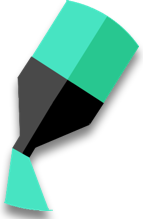
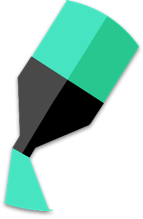
changed style

Changed region(s): [[0.1958, 0.2192, 1.0, 0.7671], [0.0, 0.9315, 0.3636, 1.0], [0.0839, 0.411, 0.1399, 0.6301]]

diff --git a/popup.css b/popup.css
@@ -1,6 +1,6 @@
 #container {
-  min-width: 400px;
-  max-width: 400px;
+  min-width: 300px;
+  max-width: 300px;
   background-color: #F7EAC8;
   font-family: 'MyFont', serif;
 }
@@ -10,35 +10,57 @@
   max-width: 400px;
 }
 
+#highlight-image {
+  float: left;
+}
+
 #highlight {
   font-style: italic;
 }
 
-#comment {
-  resize: none;
-  min-width: 300px;
-  max-width: 300px;
+#recipient {
+  min-width: 201px;
+  max-width: 201px;
+  min-height: 28px;
+  max-height: 28px;
+  font-family: 'Lustria', serif;
+  font-size: 12px;
+  float: left;
 }
 
-#recipient {
-  min-width: 300px;
-  max-width: 300px;
+#comment {
+  resize: none;
+  min-width: 200px;
+  max-width: 200px;
+  min-height: 18px;
+  max-height: 18px;
+  font-family: 'Lustria', serif;
+  font-size: 10px;
+}
+
+#send {
+
 }
 
 #link {
-  font-size: 12px;
+  font-size: 8px;
   white-space: nowrap;
   text-overflow: ellipsis;
   max-width: 300px;
 }
 
 .styleTextBox {
-  background-color: rgba(255, 255, 255, 1);
-  box-shadow: inset 1px 2px 3px 1px #ccc;
+  background-color: #FFF8E1;
+  box-shadow: inset -1px 2px 3px 1px #ccc;
   border-style: none;
+  text-indent: 5px;
 }
 
 @font-face {
     font-family: 'MyFont';
     src: url('Font/Lantinghei-SC-Extralight-stub.ttf') format('truetype');
+}
+
+input {
+ outline:none;
 }

diff --git a/popup.html b/popup.html
@@ -4,18 +4,17 @@
     <link rel="stylesheet" type="text/css" href="popup.css">
     <script src="jquery-1.11.3.min.js"></script>
     <script src="popup.js"></script>
-
+    <link href='https://fonts.googleapis.com/css?family=Lustria' rel='stylesheet' type='text/css'>
   </head>
   <body id="container">
     <h2 id="title"></h2>
-    <img src="Images/highlighter_enabled.png" width="30"/>
+    <img id="highlight-image" src="Images/highlighter_enabled.png" width="25"/>
     <p id="highlight"></p>
-    <textarea id="comment" class="styleTextBox" placeholder="Comments" rows="4" cols="50"></textarea>
     <br>
     <input id="recipient" class="styleTextBox" placeholder="Recommend" type="email" name="recipient">
-    <br><br>
+    <!-- <textarea id="comment" class="styleTextBox" placeholder="Comments" rows="2" cols="50"></textarea> -->
     <!-- <button id="btn-send">Send</button> -->
-    <img src="Images/icon_send.png" height="30"/>
+    <img id="send" src="Images/icon_send.png" height="30"/>
     <p id="link"></p>
   </body>
 </html>
